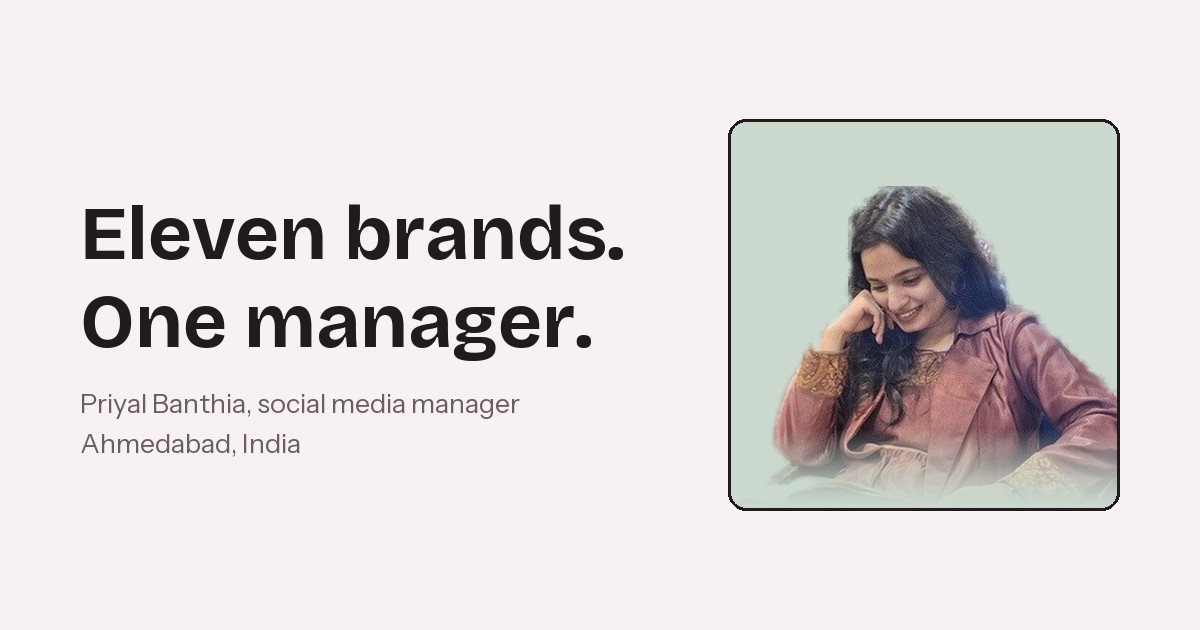
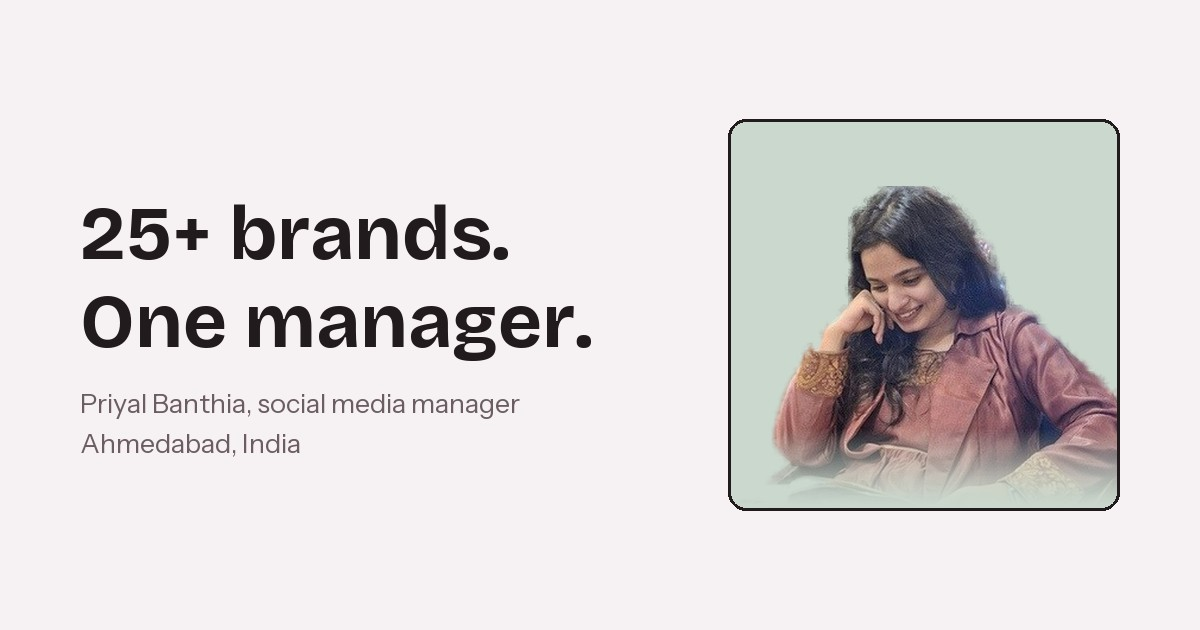
Fix the loader name on phones, and correct the brand count and email
Loader: the stage was height:100vh while the overlay is position:fixed
inset:0, which sizes to the visual viewport. On iOS those differ by the
height of the browser chrome, so the stage's centre missed the seam
between the two halves and the name fell into the clipped gap and never
appeared. Reproduced at 428x926: the name sat 45px below the top half's
edge. The stage is now 200% of a half, which is exactly the overlay's
own height, so it cannot drift from its parent.

Count: Priyal reports 25+ clients, not the eleven I had counted from the
handles listed in her deck. The page now leads with 25+ and keeps the
eleven as the ones it can evidence, with the roster note stating the
relationship outright rather than letting the two numbers contradict
each other. Headline, band, meta description, og:description, og image
alt text and the share card all follow the corrected figure.

Contact: priyalwork2411@gmail.com, the working address she gave
directly, replaces the one from her resume.

Changed region(s): [[0.0617, 0.3317, 0.5242, 0.4222]]

diff --git a/index.html b/index.html
@@ -4,18 +4,18 @@
 <meta charset="utf-8">
 <meta name="viewport" content="width=device-width, initial-scale=1">
 <title>Priyal Banthia, Social Media Manager</title>
-<meta name="description" content="Social media manager in Ahmedabad. Eleven brand accounts across jewellery, skincare, hospitality, fashion, food and heavy infrastructure. Open to freelance projects and full-time roles.">
+<meta name="description" content="Social media manager in Ahmedabad. 25+ brands across jewellery, skincare, hospitality, fashion, food and heavy infrastructure. Open to freelance projects and full-time roles.">
 
 <meta property="og:type" content="profile">
 <meta property="og:url" content="https://priyalbanthia.vercel.app/">
 <meta property="og:site_name" content="Priyal Banthia">
 <meta property="og:title" content="Priyal Banthia, Social Media Manager">
-<meta property="og:description" content="Eleven brand accounts, from a diamond jewellery label to a highway and infrastructure contractor.">
+<meta property="og:description" content="25+ brands, from a diamond jewellery label to a highway and infrastructure contractor.">
 <!-- absolute, because a relative og:image does not resolve for crawlers -->
 <meta property="og:image" content="https://priyalbanthia.vercel.app/assets/og-card.jpg">
 <meta property="og:image:width" content="1200">
 <meta property="og:image:height" content="630">
-<meta property="og:image:alt" content="Priyal Banthia, social media manager, beside the words Eleven brands. One manager.">
+<meta property="og:image:alt" content="Priyal Banthia, social media manager, beside the words 25+ brands. One manager.">
 <meta name="twitter:card" content="summary_large_image">
 
 <link rel="canonical" href="https://priyalbanthia.vercel.app/">
@@ -452,8 +452,14 @@ footer a:hover{ color:var(--ink) }
 .boot-b{ bottom:0; animation:boot-part-dn .82s cubic-bezier(.16,1,.3,1) 1.72s both }
 .boot-t .boot-stage{ top:0 }
 .boot-b .boot-stage{ bottom:0 }
+/* 200% of the half, which is exactly the overlay's own height. 100vh is the
+   LARGE viewport on iOS while the overlay is sized to the visual viewport, so
+   the two disagreed by the height of the browser chrome, the stage's centre
+   missed the screen middle, and the name fell into the clipped gap between the
+   halves and never appeared on a phone. a percentage of the parent cannot
+   drift from the parent. */
 .boot-stage{
-  position:absolute; left:0; right:0; height:100vh;
+  position:absolute; left:0; right:0; height:200%;
   display:grid; place-content:center; justify-items:center;
 }
 /* the four marks, stacked then parted two up and two down */
@@ -547,7 +553,7 @@ footer a:hover{ color:var(--ink) }
   <!-- 1 . hero ---------------------------------------------------- -->
   <section class="post hero">
     <div>
-      <h1>Eleven brands. One manager.</h1>
+      <h1>25+ brands. One manager.</h1>
       <p>I&rsquo;m Priyal Banthia, a social media manager in Ahmedabad. Daily calendars, content
         strategy, Meta Ads.</p>
       <div class="hero-actions">
@@ -563,9 +569,9 @@ footer a:hover{ color:var(--ink) }
 
   <section class="band" aria-label="At a glance">
     <dl>
-      <div><dt class="num">11</dt><dd>brand accounts personally managed</dd></div>
+      <div><dt class="num">25+</dt><dd>brands worked with</dd></div>
       <div><dt class="num">7</dt><dd>categories, from D2C to infrastructure</dd></div>
-      <div><dt class="num">2.5K-22.5K</dt><dd>follower range across those accounts</dd></div>
+      <div><dt class="num">11</dt><dd>listed here, every one live</dd></div>
       <div><dt>MICA</dt><dd>The School of Ideas, Ahmedabad</dd></div>
     </dl>
   </section>
@@ -734,8 +740,9 @@ footer a:hover{ color:var(--ink) }
       </a></li>
     </ul>
 
-    <p class="roster-note">Delivered in-house and through the agencies above, and more that are not listed here.
-      Follower counts are the accounts&rsquo; own audience size, not a growth claim.</p>
+    <p class="roster-note">Eleven of the 25+ brands she has worked with: the ones whose accounts are public,
+      delivered in-house and through the agencies above. Followers range from 2.5K to 22.5K across them.
+      Counts are each account&rsquo;s own audience size, not a growth claim.</p>
   </section>
 
   <!-- 5 . connect ------------------------------------------------- -->
@@ -743,8 +750,8 @@ footer a:hover{ color:var(--ink) }
     <h2>Tell me what the account needs to do.</h2>
     <p class="lede">Freelance projects and full-time roles both welcome. Ahmedabad, hybrid or remote.</p>
     <div class="contact-actions">
-      <a class="btn" href="mailto:banthiapriyal2310@gmail.com?subject=Social%20media%20project">
-        <svg aria-hidden="true"><use href="#i-mail"/></svg>banthiapriyal2310@gmail.com
+      <a class="btn" href="mailto:priyalwork2411@gmail.com?subject=Social%20media%20project">
+        <svg aria-hidden="true"><use href="#i-mail"/></svg>priyalwork2411@gmail.com
       </a>
       <a class="btn btn-ghost" href="https://www.linkedin.com/in/priyalbanthia/" target="_blank" rel="noopener">
         <svg aria-hidden="true"><use href="#i-li"/></svg>LinkedIn

diff --git a/PRODUCT.md b/PRODUCT.md
@@ -31,7 +31,8 @@ which buries the strongest evidence (the real accounts) behind six pages of miss
 
 ## Positioning
 
-She has personally run social for roughly eleven named, publicly verifiable brand accounts across five categories,
+She reports having worked with 25+ clients. Eleven of those are named, publicly verifiable brand accounts across
+seven categories,
 and she has since moved up from executing social media into coordinating D2C performance marketing accounts. The
 combination a neighbouring freelancer cannot truthfully copy: MICA training, a real multi-category brand roster with
 live links, and operational project-management experience on paid D2C accounts rather than organic posting alone.
@@ -66,6 +67,7 @@ role.
 - Her own description of herself, used close to verbatim: "a Social Media Manager that is passionate about helping
   busy brands and business owners create and maintain an online presence through social profiles."
 - Credential: MICA | The School of Ideas.
+- Working address is priyalwork2411@gmail.com, given by her directly and superseding the one on her resume.
 - Contact surface, per the user: email and LinkedIn only. Phone number is deliberately withheld from the public page
   even though it appears on her resume.
 - Her LinkedIn headline contains a typo ("Content Stragegy"). Corrected wherever quoted.
@@ -79,8 +81,12 @@ Real, in `assets/`, extracted from her own PDF deck:
   profile showing 22.5K followers and 674 posts. The single strongest piece of proof she has.
 - `srivari-feed.jpg` - the Srivari grid in situ on a phone.
 
-Verifiable facts: 11 named brand accounts with live Instagram links; employers Pixel Shark, Onavid, Digital Friend,
+Verifiable facts: 11 named brand accounts with live Instagram links, out of the 25+ clients she reports;
+employers Pixel Shark, Onavid, Digital Friend,
 Trunk Media, creativcells, Mylstone Digital Services; MICA; Sotrue 22.5K/674; her LinkedIn 3,186 followers.
+
+The 25+ figure is her own count and is published as such; the fourteen-plus unnamed ones are not listed because no
+public account was supplied for them, so the page states the total and shows the eleven it can evidence.
 
 Absent and not to be fabricated: follower growth for 10 of 11 brands, engagement rates, ad spend, ROAS, revenue
 attribution, client testimonials, campaign dates. No testimonial exists. No case study beyond Srivari exists.

diff --git a/DESIGN.md b/DESIGN.md
@@ -273,7 +273,7 @@ This family, and every secondary text colour derived from it, is deliberately ex
 **Character:** Bricolage's slightly irregular grotesque carries every heading with tight negative tracking, which keeps a one-page portfolio from reading corporate; Instrument Sans underneath is plain and high-legibility and stays out of the way. Body text runs with the `ss01` and `cv05` stylistic sets on. No serif anywhere, and no system display face.
 
 ### Hierarchy
-- **Display** (`{typography.display}`): The hero headline only. Its measure is the grid column, with no character cap. At its shipped length — "Eleven brands. One manager." — it sets on one line at desktop and two on a phone; the long sentence headline it replaced is gone.
+- **Display** (`{typography.display}`): The hero headline only. Its measure is the grid column, with no character cap. At its shipped length — "25+ brands. One manager." — it sets on one line at desktop and two on a phone; the long sentence headline it replaced is gone.
 - **Headline** (`{typography.headline}`): Section titles.
 - **Headline Closing** (`{typography.headline-closing}`): The contact section's title only, one step larger because it is the page's final ask.
 - **Title** (`{typography.title}`): The employer name on each timeline row — the largest display text inside a section, because that is the word both audiences scan for.
